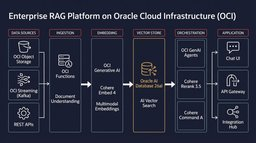
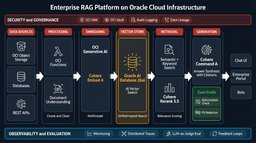
Add visual architecture design guide and upgrade RAG diagram to enterprise-grade
- Add docs/VISUAL-ARCHITECTURE-PATTERNS.md: comprehensive design guide covering
  RAG, Multi-Agent, and Data Pipeline architecture patterns with validation
  checklists, stage definitions, and generation workflow (Flash draft → Pro final)
- Upgrade RAG architecture diagram to 3-tier enterprise design:
  - Top: Security & Governance (IAM, Vault, Audit, Data Lineage)
  - Core: 6-stage pipeline (Sources → Processing → Embedding → Vector Store →
    Retrieval → Generation) with Guardrails before output
  - Bottom: Observability & Evaluation (Monitoring, Traces, LLM-as-Judge, Feedback)
- Remove test-infogenius-output.png (contained Oracle logo - trademark violation)
- Update README to describe architecture layers instead of raw prompt

Architecture informed by: Oracle RAG reference architecture, BCG FAST framework,
McKinsey Agentic AI Mesh, and Gartner enterprise AI governance patterns.

diff --git a/docs/VISUAL-ARCHITECTURE-PATTERNS.md b/docs/VISUAL-ARCHITECTURE-PATTERNS.md
@@ -1,0 +1,198 @@
+# Visual Architecture Patterns Guide
+
+> **Purpose:** Defines how architecture diagrams should be structured, validated, and generated for the OCI AI Architect skills ecosystem. Every visual must be architecturally accurate before it is aesthetically polished.
+
+## Principles
+
+1. **Architecture first, aesthetics second** — A wrong diagram that looks pretty is worse than a rough sketch that's correct
+2. **Every label must be defensible** — If someone asks "why is X in the Y column?", you must have an answer grounded in how the system actually works
+3. **Iterate cheap, finalize expensive** — Use Flash tier ($0.039) for drafts, Pro ($0.134) only after architecture review
+4. **No stale data in visuals** — No hardcoded pricing, version numbers that will age, or claims that need periodic verification
+
+## Generation Workflow
+
+```
+1. DEFINE architecture (text/ASCII first)
+   ↓
+2. VALIDATE against reference patterns below
+   ↓
+3. GENERATE at Flash tier (draft)
+   ↓
+4. REVIEW with user — check labels, flow, accuracy
+   ↓
+5. ITERATE at Flash if changes needed
+   ↓
+6. FINALIZE at Pro tier (approved architecture only)
+```
+
+**Cost discipline:** A single Pro image is 3.4x the cost of Flash. Never go straight to Pro without validating the architecture.
+
+---
+
+## Pattern: Enterprise RAG Platform
+
+### Reference Sources
+- [Oracle RAG Reference Architecture](https://docs.oracle.com/en/solutions/implement-rag-oci/index.html)
+- [OCI GenAI Agents RAG Service](https://blogs.oracle.com/ai-and-datascience/oci-generative-ai-agents-rag-service)
+- [oracle-devrel/oci-rag-vectordb](https://github.com/oracle-devrel/oci-rag-vectordb)
+
+### Correct Pipeline Stages
+
+A RAG system has **two distinct flows**: ingestion (batch/offline) and query (real-time). A single left-to-right diagram should accurately represent the query-time flow, with ingestion shown as a secondary path or separate diagram.
+
+**Query-time flow (primary):**
+
+```
+USER QUERY → EMBED → RETRIEVE → RERANK → GENERATE → RESPONSE
+```
+
+**Ingestion flow (secondary):**
+
+```
+DATA SOURCES → PROCESS → CHUNK → EMBED → INDEX (Vector Store)
+```
+
+### Stage Definitions
+
+| Stage | What Happens | OCI Service | NOT This |
+|-------|-------------|-------------|----------|
+| **Data Sources** | Raw data origins | OCI Object Storage, DB, APIs, SaaS | Don't list non-OCI services as primary (no "S3", no "SharePoint") |
+| **Processing** | Extract, clean, chunk documents | OCI Document Understanding, OCI Functions | Not "Ingestion" (too vague) |
+| **Embedding** | Convert text/images to vectors | OCI Generative AI + Cohere Embed 4 | Embedding is a specific step, not a service category |
+| **Vector Store** | Store and index vectors | Oracle AI Database 26ai + AI Vector Search | Not "Storage" (too generic). DB is THE differentiator |
+| **Retrieval** | Semantic search + reranking | AI Vector Search (query) + Cohere Rerank 3.5 | Reranking is retrieval, NOT orchestration |
+| **Generation** | LLM synthesizes answer from context | Cohere Command A / Command A Reasoning | Generation is NOT orchestration — it's the answer step |
+| **Applications** | End-user interfaces | Chat UIs, enterprise portals, Slack/Teams bots | Not "API Gateway" (that's infrastructure, not an app) |
+
+### Common Mistakes
+
+| Mistake | Why It's Wrong | Correct |
+|---------|---------------|---------|
+| Putting Rerank under "Orchestration" | Reranking scores retrieval relevance — it's search, not orchestration | Put under "Retrieval" |
+| Putting Command A under "Orchestration" | The LLM generates the answer — that's "Generation" | Separate "Generation" stage |
+| "Orchestration" as a catch-all | Orchestration means coordinating multi-step agent workflows (GenAI Agents). Don't use it for single-pass RAG | Only use for agentic patterns |
+| API Gateway in "Application" | API Gateway is networking/infrastructure | Show actual user-facing apps |
+| Hardcoded pricing in visuals | Goes stale. $0.19/OCPU was Jan 2025, may change | Never include prices in diagrams |
+
+---
+
+## Pattern: Multi-Agent Orchestration
+
+### Correct Stages
+
+```
+TRIGGER → ROUTER → SPECIALIST AGENTS → TOOLS/ACTIONS → SYNTHESIS → OUTPUT
+```
+
+| Stage | What Happens | OCI Service |
+|-------|-------------|-------------|
+| **Trigger** | User request or event | API Gateway, OCI Events, Chat interface |
+| **Router** | Classifies intent, selects agent | OCI GenAI Agents (Select AI Agent) |
+| **Agents** | Specialized task execution | ADK agents, MCP-connected tools |
+| **Tools** | External actions (DB query, API call, code exec) | OCI Functions, Database, REST APIs |
+| **Synthesis** | Combine agent outputs | Cohere Command A (summarization) |
+| **Output** | Formatted response to user | Application layer |
+
+---
+
+## Pattern: Data Pipeline / Lakehouse
+
+### Correct Stages
+
+```
+SOURCES → INGEST → TRANSFORM → STORE → ANALYZE → SERVE
+```
+
+| Stage | OCI Service |
+|-------|-------------|
+| **Sources** | Object Storage, Streaming (Kafka), GoldenGate |
+| **Ingest** | OCI Data Integration, OCI Functions |
+| **Transform** | OCI Data Flow (Spark), OCI Data Science |
+| **Store** | Oracle AI Database 26ai, Autonomous Data Warehouse |
+| **Analyze** | OCI GenAI, Oracle Analytics Cloud |
+| **Serve** | API Gateway, OCI Functions, Applications |
+
+---
+
+## Visual Standards
+
+### Dark Theme (Default)
+
+| Element | Color | Hex |
+|---------|-------|-----|
+| Canvas background | Dark navy | `#0D1117` |
+| Component cards | Slate | `#1E293B` |
+| Section headers | Oracle Red on dark | `#C74634` on `#1E293B` |
+| Primary text | White | `#FFFFFF` |
+| Secondary text | Light gray | `#94A3B8` |
+| Arrows/connectors | Light gray or white | `#CBD5E1` |
+| Accent (DB/Vector) | Amber/gold | `#F59E0B` |
+
+### Layout Rules
+
+1. **Flow direction:** Left-to-right for pipelines, top-to-bottom for stacks
+2. **Max columns:** 7 (beyond this, text becomes unreadable at README width)
+3. **Column headers:** ALL CAPS, red background, short labels (1-2 words)
+4. **Component boxes:** Rounded corners, subtle border, icon + label
+5. **Arrows:** Simple, unidirectional, no curved spaghetti
+6. **Whitespace:** Generous — cramped diagrams look amateur
+
+### Text Rules
+
+1. **Service names:** Must match Oracle documentation exactly
+2. **No pricing:** Never hardcode costs into visuals
+3. **No version numbers that age:** Use "Oracle AI Database 26ai" (the brand name includes the version). Don't add extra version qualifiers
+4. **Labels must be justified:** Every box label should answer "what role does this play in the architecture?"
+
+### Trademark Compliance
+
+- NO official Oracle logos
+- NO Oracle "O" symbol
+- YES to text labels ("Oracle Cloud", "OCI")
+- YES to brand-inspired colors (#C74634)
+- YES to official service names
+
+---
+
+## Validation Checklist
+
+Before any visual is committed to the public repo:
+
+```
+ARCHITECTURE ACCURACY
+[ ] Every stage label correctly describes what happens at that stage
+[ ] Services are placed in the right stage (not catch-all buckets)
+[ ] Data flow direction makes technical sense
+[ ] No services listed that don't exist on OCI
+[ ] Service names match current Oracle documentation
+
+VISUAL QUALITY
+[ ] Text is readable at 80% width in a GitHub README
+[ ] No spelling errors
+[ ] Dark background with Oracle Red accents
+[ ] Clean layout with adequate whitespace
+[ ] No glow effects, 3D, or clip-art aesthetics
+
+COMPLIANCE
+[ ] No Oracle logos
+[ ] No hardcoded pricing
+[ ] No competitor service names as primary data sources
+[ ] Disclaimer present in repo (DISCLAIMER.md)
+
+PROCESS
+[ ] Architecture validated in text/ASCII before image generation
+[ ] Draft generated at Flash tier first
+[ ] User approved architecture before Pro generation
+```
+
+---
+
+## Version History
+
+| Date | Change |
+|------|--------|
+| 2026-02-05 | Initial version — RAG, Multi-Agent, Data Pipeline patterns |
+
+---
+
+*Maintained by the OCI AI Architects community*

diff --git a/README.md b/README.md
@@ -68,10 +68,12 @@ See [skills/README.md](skills/README.md) for detailed pricing and usage guide.
   <img src="examples/visuals/rag-architecture.png" alt="RAG Architecture on OCI" width="80%">
 </p>
 
-Generated with:
-```bash
-/oracle-infogenius "Enterprise RAG Platform with OCI GenAI, Oracle AI Database 26ai Vector Search, Cohere Embed 4, and OCI GenAI Agents orchestration"
-```
+Generated with `/oracle-ai-architect-infogenius` — shows 3-tier enterprise architecture:
+- **Security & Governance** layer (IAM, Vault, Audit, Data Lineage)
+- **Core pipeline**: Data Sources → Processing → Embedding → Vector Store → Retrieval → Generation
+- **Observability & Evaluation** layer (Monitoring, Traces, LLM-as-Judge, Feedback Loops)
+
+See [Visual Architecture Patterns Guide](docs/VISUAL-ARCHITECTURE-PATTERNS.md) for design standards.
 
 ### Multi-Agent Orchestration Patterns
 
